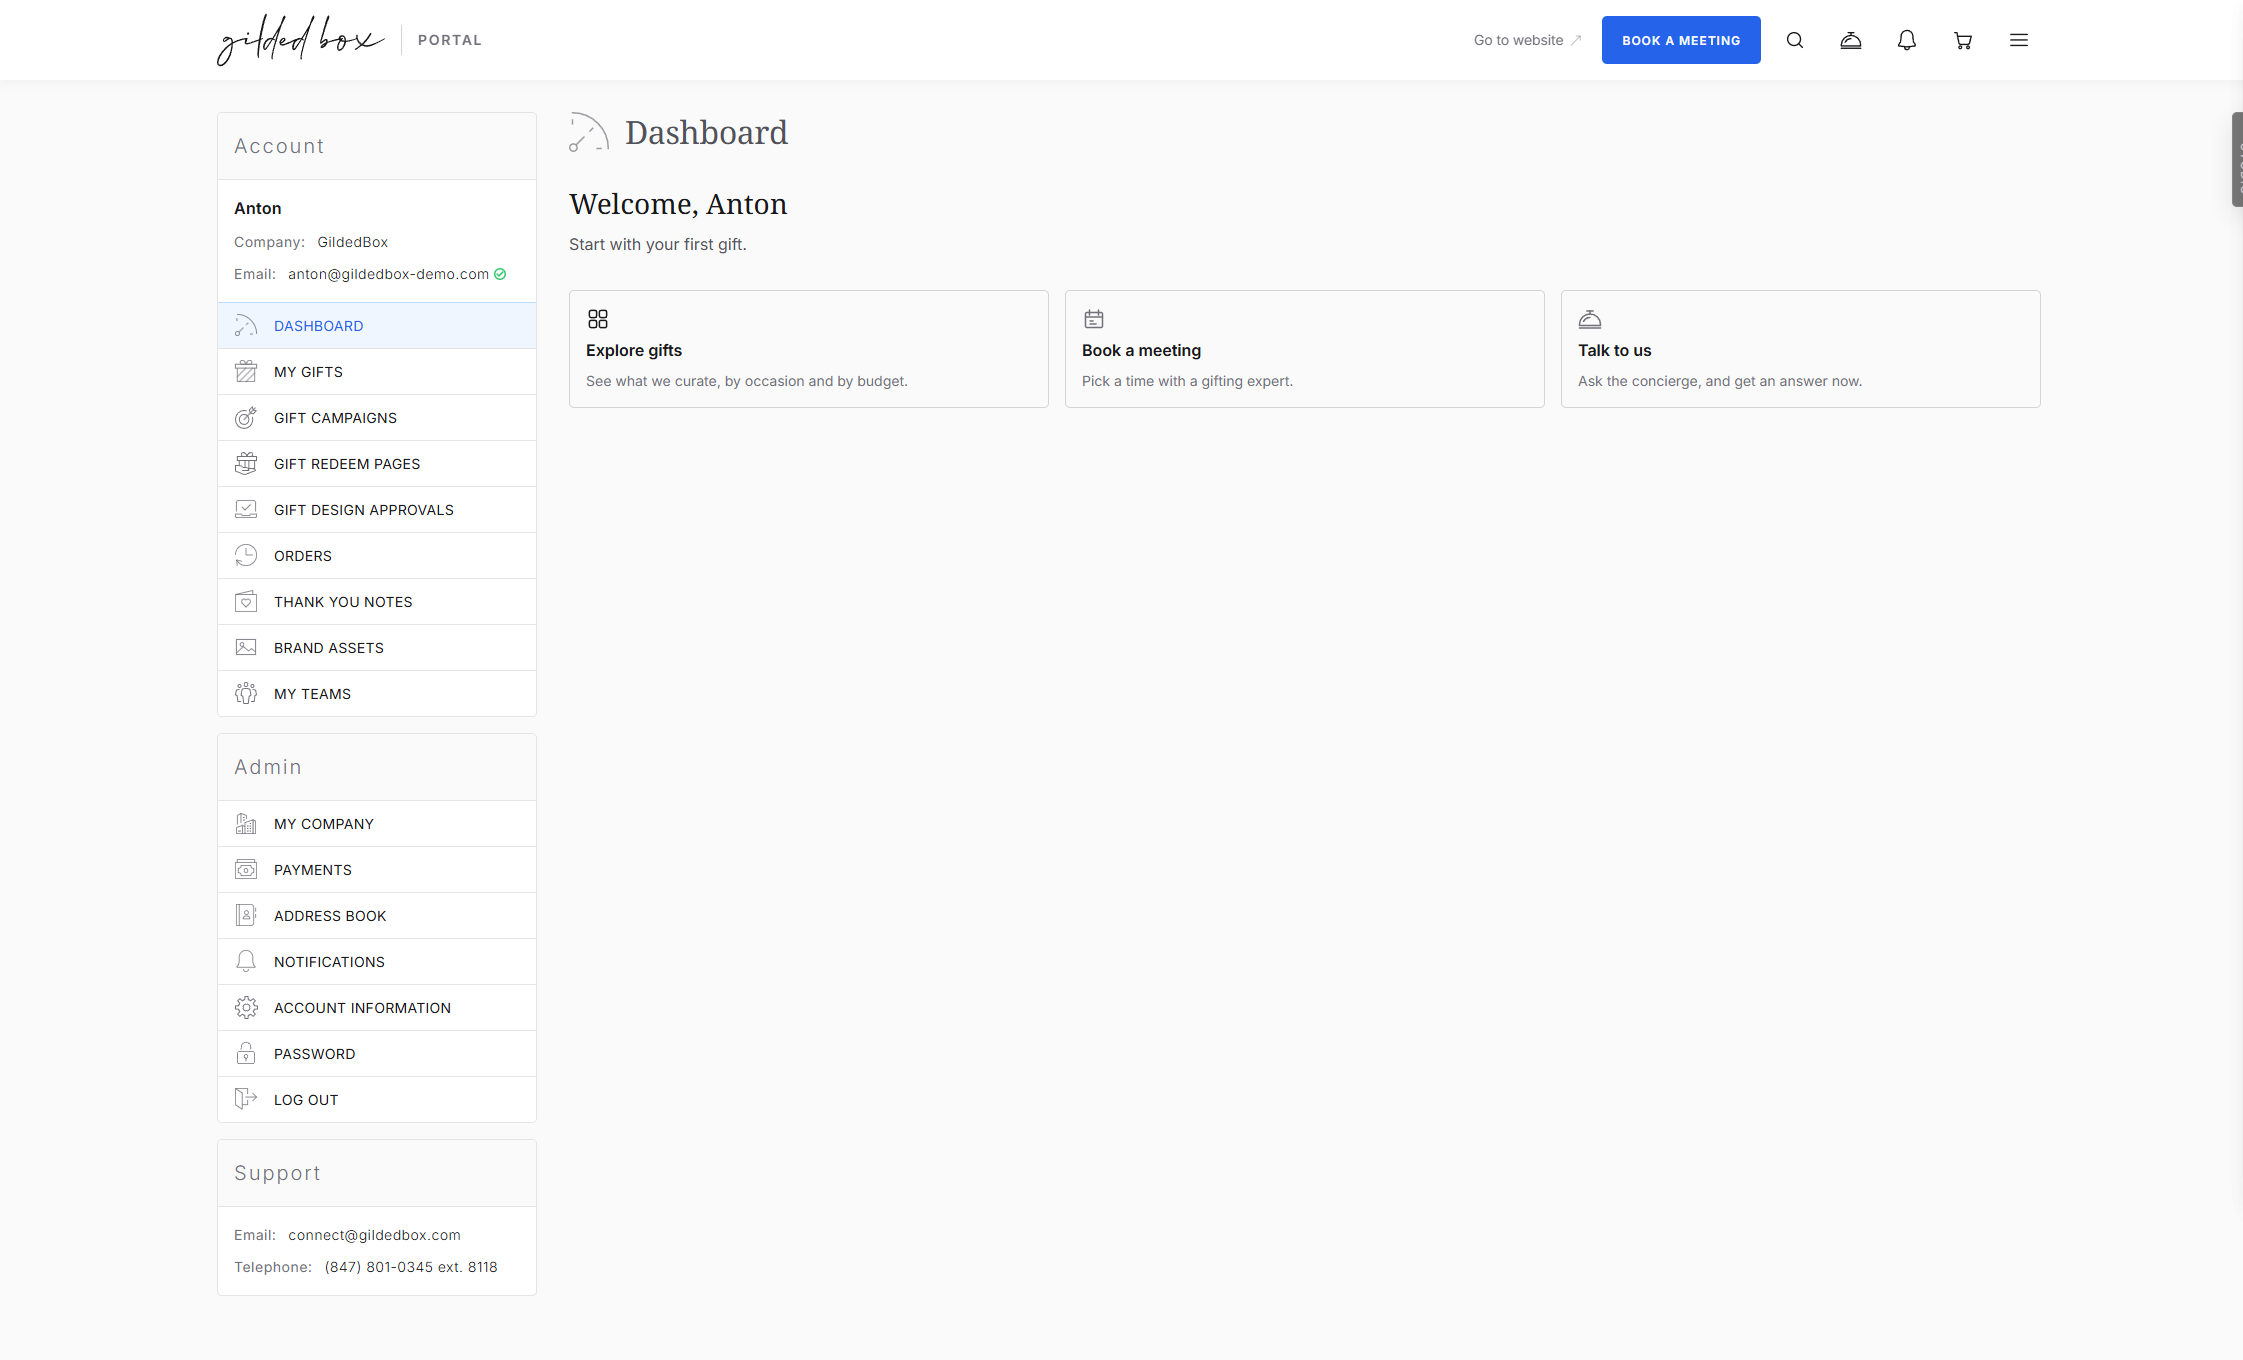
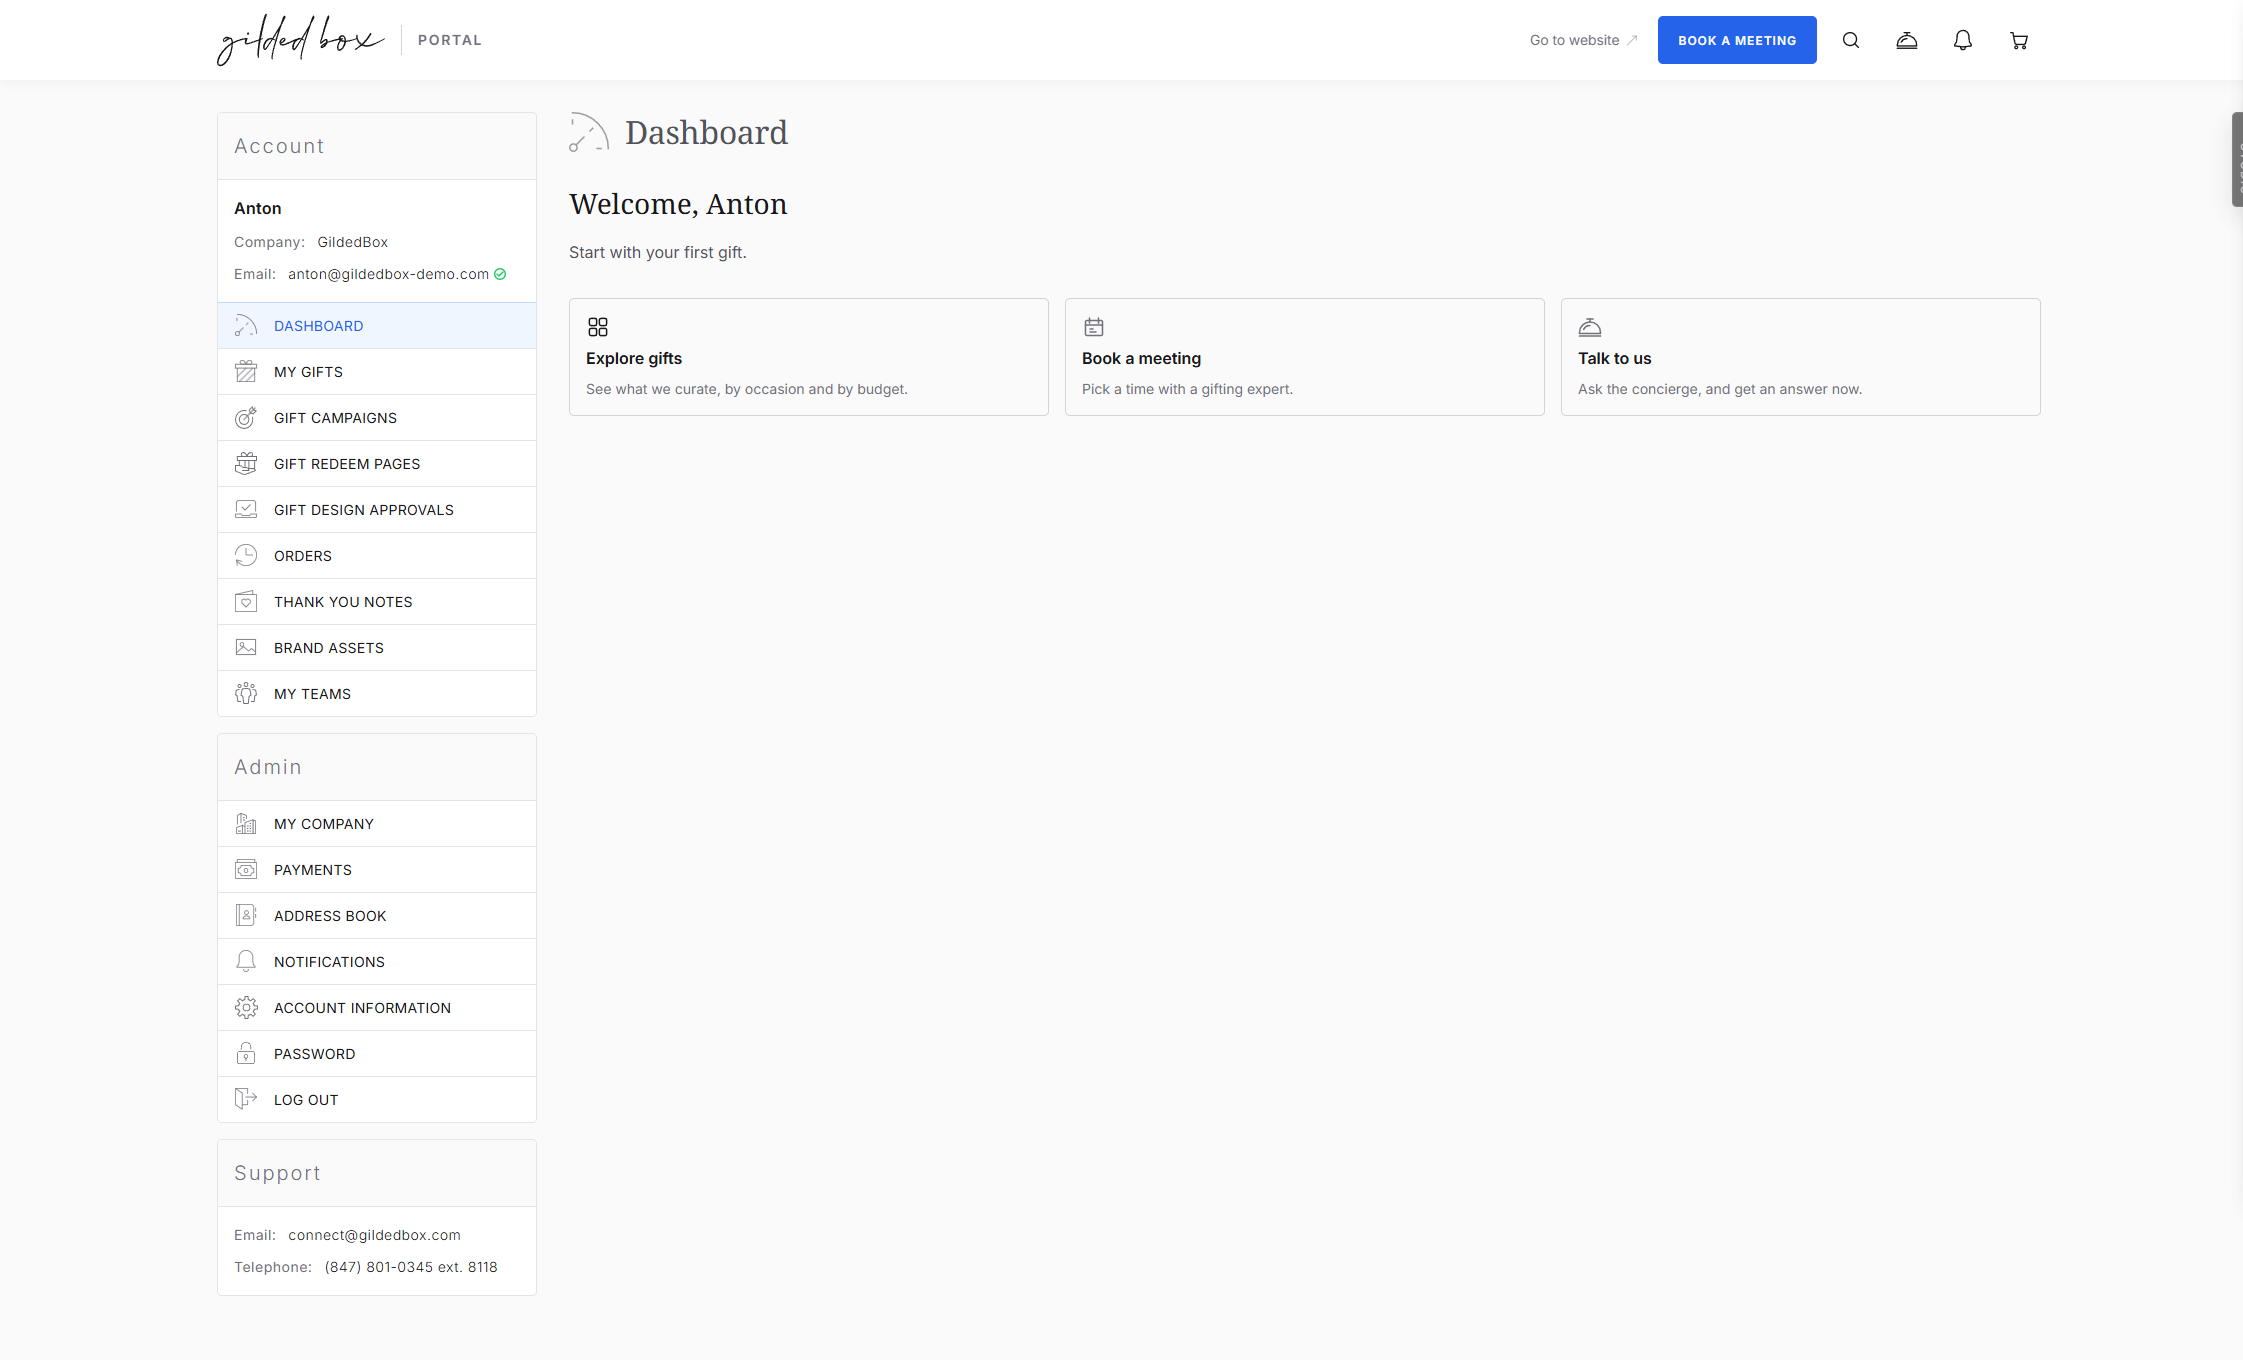
fix(portal): the blocks breathe, and the rhythm is one rung inside and two between
Ton on the fresh view: the name, the tabs and the content were stuck
together, «воздуха вообще нет». The 8 that hugged the tabs to their
heading was too tight and it is gone: the chain inside a block is
now 16 from the name to the tabs and 16 from the tabs to the
content, and the ratio still holds, because 32 between blocks is
twice the 16 inside them.

The empty state joins the same law: the welcome is a heading and the
line under it is its content, so that pair went from 8 to 16 while
the gaps around the zone stay 32.

Measured after, at 1280, all three blocks and both states: head to
tabs 16, tabs to content 16, page head to first zone 32, zone to
zone 32, quick actions title to its doors 16, welcome to line 16,
line to doors 32. Every number a rung.

diff --git a/live/portal-dashboard.html b/live/portal-dashboard.html
@@ -512,12 +512,13 @@ a.gbppd-door, body.gb-demo a.gbppd-door { color: var(--zinc-900); }
    scale that is 32 between zones and 16 from a title to what it
    titles, and both are rungs.
 
-   Inside a tabbed block the chain is heading 8 tabs 16 content: the
-   tabs belong to the name above them, so they hug it, and the widest
-   gap inside a block stays the 16 that the law measures. Nothing on
-   this page is a number off the scale. */
+   Inside a tabbed block the chain is heading 16 tabs 16 content, and
+   the rung below was TRIED AND REJECTED: hugging the tabs to the
+   name at 8 read as three lines stuck together (Ton, 10.09: «воздуха
+   вообще нет»). One internal rung, one section rung, and the ratio
+   still holds: 32 between blocks is twice the 16 inside them.
+   Nothing on this page is a number off the scale. */
 .gbppd-tabs { margin-bottom: var(--space-16); }
-.gbppd-widget__head:has(+ .gbppd-tabs) { margin-bottom: var(--space-8); }
 
 /* NOTHING IN THIS TAB, AND THAT IS A STATE TOO. Ton: «табы из коробки
    будут работать ужасно» — the first thing that breaks is the empty
@@ -1255,7 +1256,9 @@ html:not([data-gbppd-state="empty"]) .gbppd-emptyzone { display: none; }
    welcome: the same 2:1 the filled page keeps. */
 .gbppd-emptyzone .gbppd-doors { margin-top: var(--space-32); }
 .gbppd-empty__say {
-  margin: var(--space-8) 0 0;
+  /* The welcome is a heading and this is its content, so the law
+     measures this gap too: 16 inside, 32 between. */
+  margin: var(--space-16) 0 0;
   max-width: 44rem;
   font-size: 16px;
   line-height: 1.7;
